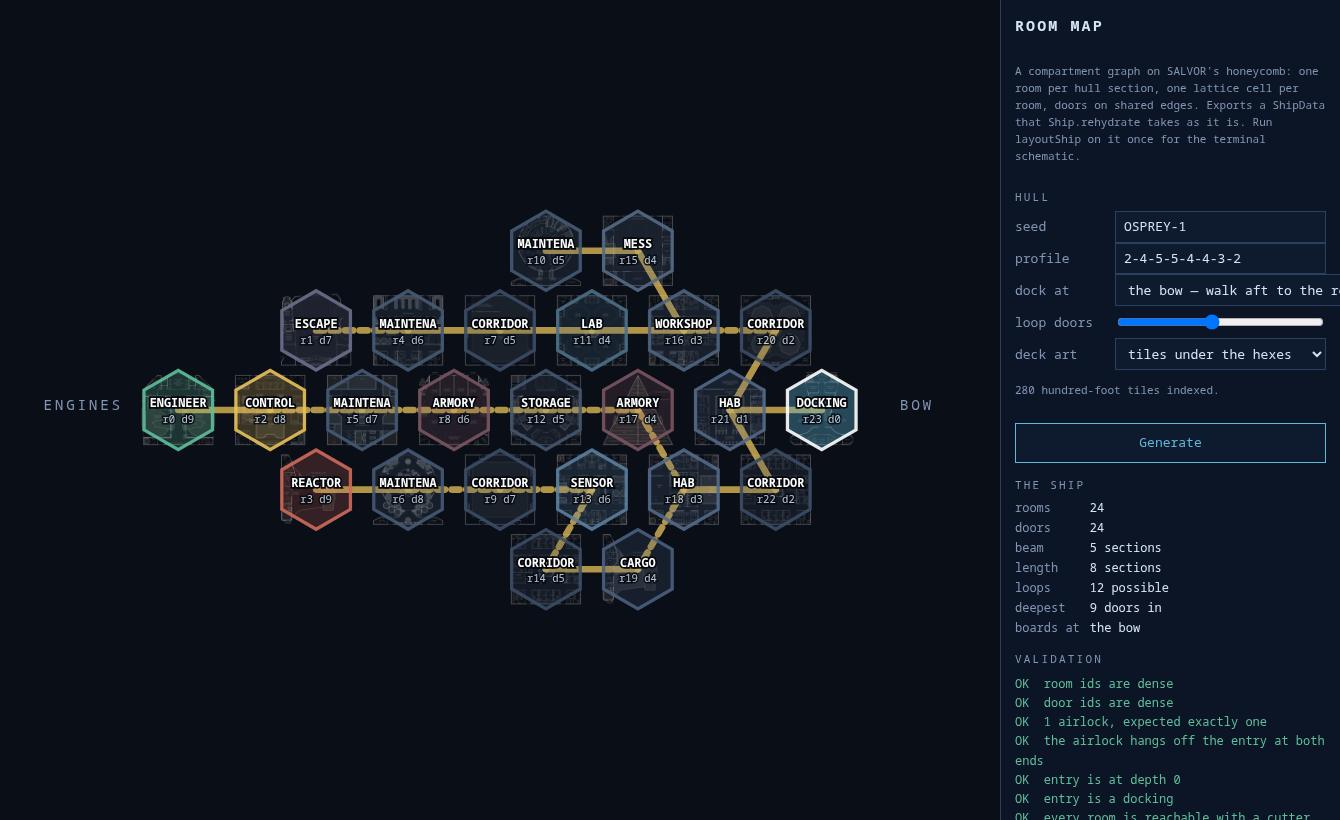
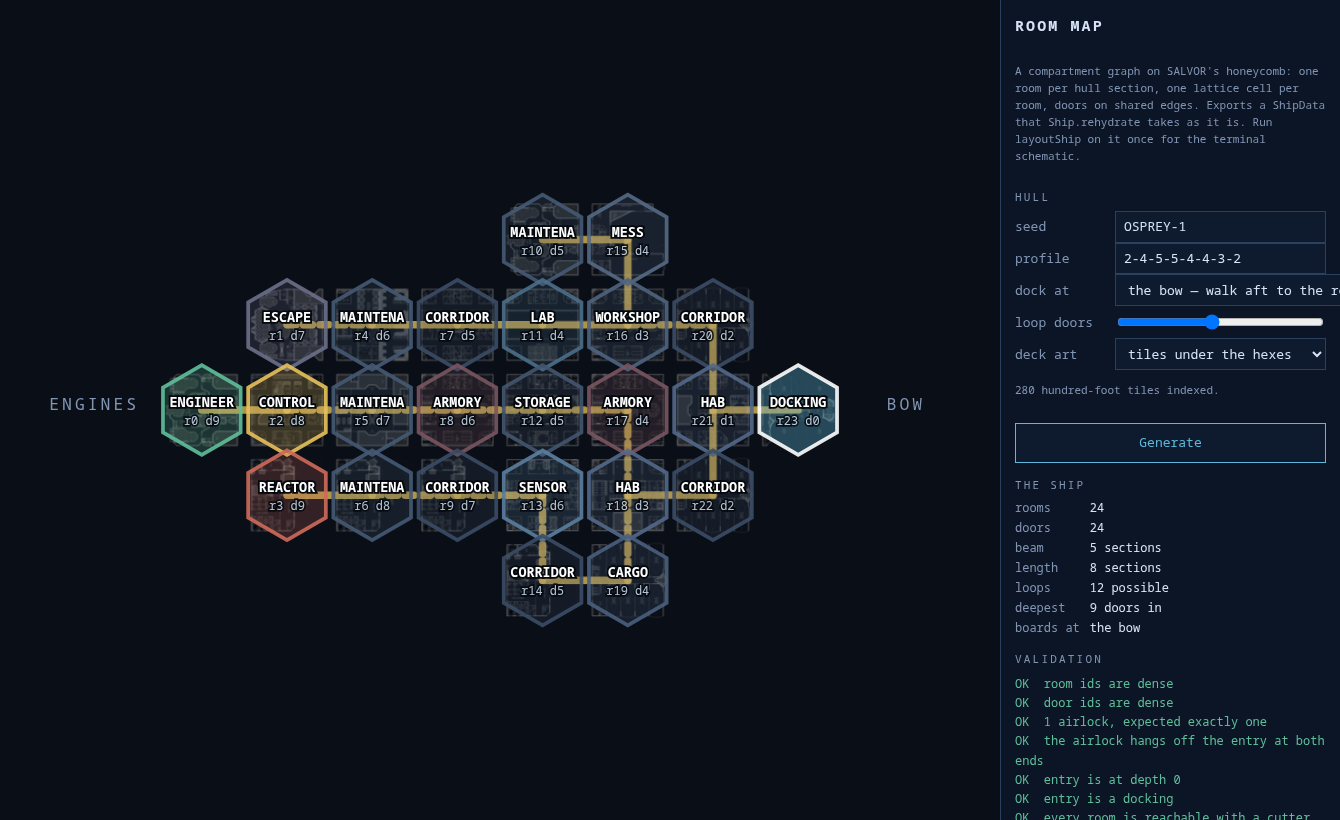
Turn the tiles with the ship, and lay the deck where it can be continuous
Two faults, and the first was mine to have caught. The archive draws its
ships upright, engines at the bottom and bridge at the top, and this hull is
turned ninety degrees clockwise — so every tile has to turn with it. They
were being drawn in their authored orientation on a hull lying on its side.
The direction map is a named constant rather than an angle folded into the
transform, because merely sideways art is obvious and silently sideways edge
matching is not.

The second is why the plan did not read as a finished ship: it was drawn on
the lattice, and the lattice cannot carry a deck plan. SALVOR spaces its
hexagons apart on purpose — the gap is where a corridor goes — so tiles
placed at hex pitch can never meet. Sections have no such gap, a hundred
feet of deck meets the next hundred feet, so the plan is laid out square and
the honeycomb goes over it, one hexagon to a section.

Selection now reads the taxonomy's skin as well as its roles. Skin is hull
plating, so a section at the edge of the ship wants it exactly where there
is no neighbour and a section in the middle wants none at all; without that
the plan grows a hull wall through its own centre. 176 of the 280 tiles
carry no skin, which is the interior pool, and 70 carry three sides, which
is what an end cap is.

The doorways are still not matched, and the note says so. Every tile carries
doors near 25 and 75 feet along each edge, so they line up on a whole
[…]

Changed region(s): [[0.0306, 0.2439, 0.6425, 0.7622], [0.6731, 0.4878, 0.7037, 0.5183]]

diff --git a/vuvko_works/roomgen.html b/vuvko_works/roomgen.html
@@ -269,6 +269,9 @@ const weighted = FILLER.flatMap(k => Array.from({length: k.weight}, () => k));
  */
 let TILES = null;
 
+/* The four ways out of a section, in ship space: west is aft, east is the bow. */
+const SHIP_STEP = {w: [-1, 0], e: [1, 0], n: [0, -1], s: [0, 1]};
+
 const KIND_ROLES = {
   docking:["airlock","bay"], engineering:["drive","service"], reactor:["drive","fuel"],
   control:["command"],       cargo:["bay"],                   storage:["bay","service"],
@@ -288,6 +291,7 @@ async function loadTiles(){
     ]);
     const drawable = new Set(man.tiles.filter(t => !t.overlay).map(t => t.path));
     const byRole = new Map();
+    const skin = new Map();
     const all = [];
     for (const path in tax.tiles){
       const tile = tax.tiles[path];
@@ -296,12 +300,13 @@ async function loadTiles(){
          else would have to be cut or stretched to sit under a hexagon. */
       if (ft[0] !== 100 || ft[1] !== 100 || !drawable.has(path)) continue;
       all.push(path);
+      skin.set(path, tile.skin || []);
       for (const role of tile.roles || []){
         if (!byRole.has(role)) byRole.set(role, []);
         byRole.get(role).push(path);
       }
     }
-    TILES = all.length ? {byRole, all} : null;
+    TILES = all.length ? {byRole, skin, all} : null;
     note.textContent = TILES
       ? all.length + " hundred-foot tiles indexed."
       : "No hundred-foot tiles in the index.";
@@ -312,19 +317,67 @@ async function loadTiles(){
   }
 }
 
-/* Which tile a compartment wears. Seeded, so a seed reproduces the picture. */
-function artFor(rooms, seed){
+/**
+ * Ship directions to tile edges, under the rotation.
+ *
+ * The archive draws its ships upright — engines at the bottom, bridge at the
+ * top — and this hull is turned ninety degrees clockwise, so every tile has to
+ * turn with it. A tile's north edge ends up facing the ship's bow, which is
+ * east. Get this wrong and the art is merely sideways; get it silently wrong
+ * and every wall and doorway is matched against the wrong edge as well.
+ */
+const TILE_SIDE = {e: "n", s: "e", w: "s", n: "w"};
+
+/**
+ * Which tile a compartment wears.
+ *
+ * Role decides what kind of deck it is; `skin` decides whether it can sit
+ * there at all. A tile's skin sides are its hull plating, so a section at the
+ * edge of the ship wants plating exactly where there is no neighbour, and a
+ * section in the middle wants none at all — otherwise the plan grows a hull
+ * wall through the middle of itself and stops reading as one ship.
+ *
+ * Seeded, so a seed reproduces the picture.
+ */
+function artFor(rooms, seed, sections, occupied){
   if (!TILES) return null;
   const rand = rng(seed + ":art");
   const out = new Map();
   for (const room of rooms){
     const roles = KIND_ROLES[room.kind] || [];
-    let pool = null;
+    let pool = [];
     for (const role of roles){
       const found = TILES.byRole.get(role);
-      if (found && found.length) { pool = found; break; }
+      if (found) pool = pool.concat(found);
     }
-    out.set(room.id, pick(rand, pool || TILES.all));
+    if (!pool.length) pool = TILES.all;
+
+    /* Where this section meets space rather than another compartment. */
+    const open = new Set();
+    for (const dir in SHIP_STEP){
+      const step = SHIP_STEP[dir];
+      const here = sections.get(room.id);
+      if (!occupied.has((here.col + step[0]) + "," + (here.row + step[1]))) open.add(dir);
+    }
+
+    let best = null, bestScore = -Infinity;
+    /* A bounded look: the pools run to a couple of hundred and every one is a
+       fair candidate, so this walks the whole pool from a seeded offset rather
+       than sampling it. */
+    const start = Math.floor(rand() * pool.length);
+    for (let n = 0; n < pool.length; n++){
+      const path = pool[(start + n) % pool.length];
+      const skin = new Set(TILES.skin.get(path) || []);
+      let score = 0;
+      for (const dir of ["n", "s", "e", "w"]){
+        const has = skin.has(TILE_SIDE[dir]);
+        if (open.has(dir)) score += has ? 3 : -1;
+        else score += has ? -4 : 1;     // plating inside the ship is the worst fault
+      }
+      if (score > bestScore) { bestScore = score; best = path; }
+      if (score === 4) break;            // a perfect fit; nothing to beat it
+    }
+    out.set(room.id, best);
   }
   return out;
 }
@@ -499,10 +552,15 @@ function buildShip(opts){
      which is the shape `validateShip` insists on. */
   doors.push({id: doors.length, label: "a1", a: entry.id, b: entry.id, state: "airlock"});
 
+  /* Where each compartment sits on the section grid. Kept beside the ship
+     rather than on it: `ShipData` is exactly what the other half serialises,
+     and a field it does not know is a field that comes back on a save. */
+  const sections = new Map(rooms.map(r => [r.id, {col: r._cell.col, row: r._cell.row}]));
+  const occupied = new Set(cells.map(c => c.col + "," + c.row));
   for (const room of rooms) delete room._cell;
   return {
     ship: {rooms, doors, entry: entry.id},
-    missing,
+    missing, sections, occupied,
     stats: {beam, length, loops: loops.length, sections: cells.length, atBow},
   };
 }
@@ -587,48 +645,45 @@ function corners(c, size){
   return out.join(" ");
 }
 
-function draw(ship, art){
+function draw(ship, art, sections){
   const svg = document.getElementById("map");
   svg.replaceChildren();
   const size = 30;
 
-  const seatsEarly = ship.rooms.map(r => centreOf(r.data.hex, size));
+  /* The plan is drawn on the section grid, not on the lattice.
 
-  /* The deck plan, as one picture under the whole ship.
+     A deck plan has to be continuous or it is not a ship, and the lattice
+     cannot carry one: SALVOR spaces its hexagons apart on purpose, because the
+     gap between them is where a corridor goes. Sections have no such gap — a
+     hundred feet of deck meets the next hundred feet — so the plan is laid out
+     square and the honeycomb is placed over it, one hexagon to a section.
 
-     Each section's tile is drawn at its own compartment's place and left
-     uncut, so neighbouring tiles meet and the hull reads as a continuous plan
-     rather than as a row of coasters. The lattice puts alternate rows half a
-     column across and sets them closer together than they are wide, so the
-     plan comes out bricked and slightly overlapped — which is what makes it
-     continuous, and is why nothing here is clipped.
+     Each tile is also turned ninety degrees clockwise with the rest of the
+     ship. The archive draws upright, engines at the bottom and bridge at the
+     top, and this hull is on its side. */
+  const pitch = size * 1.9;
+  const at = (id) => {
+    const cell = sections.get(id);
+    return {x: cell.col * pitch, y: cell.row * pitch};
+  };
+  const seats = ship.rooms.map(r => at(r.id));
 
-     It is scenery: the hexagons and the corridors are drawn over it, and a
-     wash goes between so the labels stay readable. */
   if (art){
-    /* Dimmed here rather than covered by a panel over the top: a rectangle
-       laid over the plan has edges, and those edges read as a box drawn round
-       the ship that means nothing. */
-    const plan = el("g", {opacity: .5});
-    /* Back to front, so a later tile's overlap falls on an earlier one and the
-       seam runs the same way down the whole ship. */
-    const order = ship.rooms.map((r, i) => i).sort((a, b) =>
-      seatsEarly[a].y - seatsEarly[b].y || seatsEarly[a].x - seatsEarly[b].x);
-    for (const i of order){
-      const tile = art.get(ship.rooms[i].id);
-      if (!tile) continue;
-      const c = seatsEarly[i];
+    const plan = el("g", {opacity: .62});
+    ship.rooms.forEach(function plate(room, i){
+      const tile = art.get(room.id);
+      if (!tile) return;
+      const c = seats[i];
+      const half = pitch / 2;
       plan.appendChild(el("image", {
         href: "geomorphs/" + tile,
-        x: c.x - size * 1.05, y: c.y - size * 1.05,
-        width: size * 2.1, height: size * 2.1,
-        preserveAspectRatio: "xMidYMid slice",
+        x: c.x - half, y: c.y - half, width: pitch, height: pitch,
+        preserveAspectRatio: "none",
+        transform: "rotate(90 " + c.x + " " + c.y + ")",
       }));
-    }
+    });
     svg.appendChild(plan);
   }
-  const seats = ship.rooms.map(r => centreOf(r.data.hex, size));
-
   /* Corridors under the compartments, so a hexagon always covers its own end. */
   const links = el("g", {"stroke-linecap":"round", fill:"none"});
   for (const door of ship.doors){
@@ -718,7 +773,10 @@ function generate(){
   }
   CURRENT = built.ship;
   const wanted = document.getElementById("art").value === "on";
-  draw(built.ship, wanted ? artFor(built.ship.rooms, document.getElementById("seed").value) : null);
+  const art = wanted
+    ? artFor(built.ship.rooms, document.getElementById("seed").value, built.sections, built.occupied)
+    : null;
+  draw(built.ship, art, built.sections);
 
   const checks = validate(built.ship, built.missing);
   report.innerHTML = checks.map(c =>

diff --git a/vuvko_works/design/generator-for-rooms.md b/vuvko_works/design/generator-for-rooms.md
@@ -173,20 +173,33 @@ taxonomy roles — `docking` wants `airlock` or `bay`, `reactor` wants `drive` o
 `fuel`, and so on down a table of nineteen rows. 280 of the 1789 tiles are a
 hundred feet square, which is enough spread to never repeat a neighbour.
 
-The plan is drawn as **one picture under the whole hull**, not as a tile
-clipped into each hexagon. Nothing is cut: neighbouring tiles meet, and the
-hull reads as a continuous deck rather than a row of coasters, with the
-honeycomb and its corridors drawn over the top.
+The plan is drawn **on the section grid, not on the lattice**, because a deck
+plan has to be continuous or it is not a ship — and the lattice cannot carry
+one. SALVOR spaces its hexagons apart on purpose: the gap between them is where
+a corridor goes. Sections have no such gap, a hundred feet of deck meets the
+next hundred feet, so the plan is laid out square and the honeycomb is placed
+over it, one hexagon to a section.
 
-That works because a lattice puts alternate rows half a column across, so the
-plan comes out bricked and slightly overlapped — and **a hundred-foot tile may
-legitimately sit half a section across where its doors allow it**, which is the
-archive's own rule rather than a liberty taken here. `geomorph-core.js` already
-reasons about it: `expandProfile` describes a hundred-to-fifty transition whose
-funnel opening is centred in its own hundred feet, so a row hanging under it is
-*meant* to sit half a section over and connects through the tile instead of
-through a section edge. A half-section offset is therefore not a misalignment
-to be snapped away; matching the doors across it is the thing to check.
+**Every tile is turned ninety degrees clockwise with the ship.** The archive
+draws upright — engines at the bottom, bridge at the top — and this hull is on
+its side, so a tile's north edge ends up facing the bow, which is east. Getting
+that wrong leaves the art merely sideways; getting it *silently* wrong matches
+every wall and doorway against the wrong edge as well, which is why the
+direction map is written down as a constant rather than folded into an angle.
+
+Selection uses the taxonomy's `skin` as well as its roles. A tile's skin sides
+are its hull plating, so a section at the edge of the ship wants plating
+exactly where it has no neighbour, and a section in the middle wants none at
+all — otherwise the plan grows a hull wall through its own centre and stops
+reading as one ship. 176 of the 280 hundred-foot tiles carry no skin at all,
+which is the interior pool; 70 carry three sides, which is what an end cap is.
+
+**Still open: the doorways are not matched.** Every 100×100 tile carries doors
+at roughly 25 and 75 feet along each edge, so on a whole-section grid they line
+up by construction, and across a half-section offset a door at 25 meets one at
+75. Neither is *checked* yet — selection matches plating, not openings. That is
+the remaining work if the plan is to be structurally honest rather than merely
+continuous.
 
 Two things follow from turning it round this way. The ship is a ship before
 there is any artwork at all, so the broken core cannot produce a broken graph.
